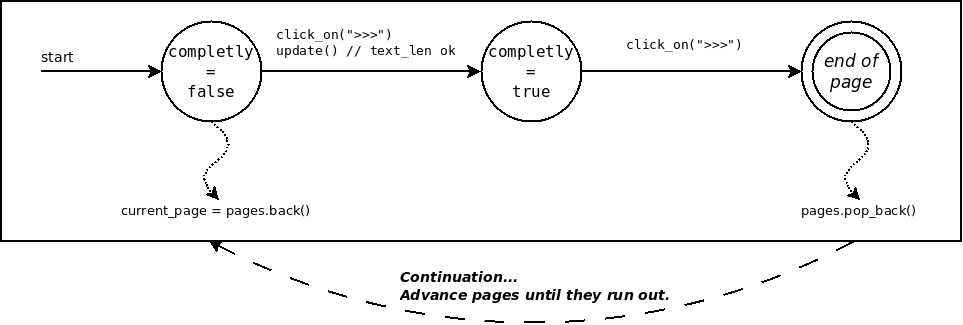
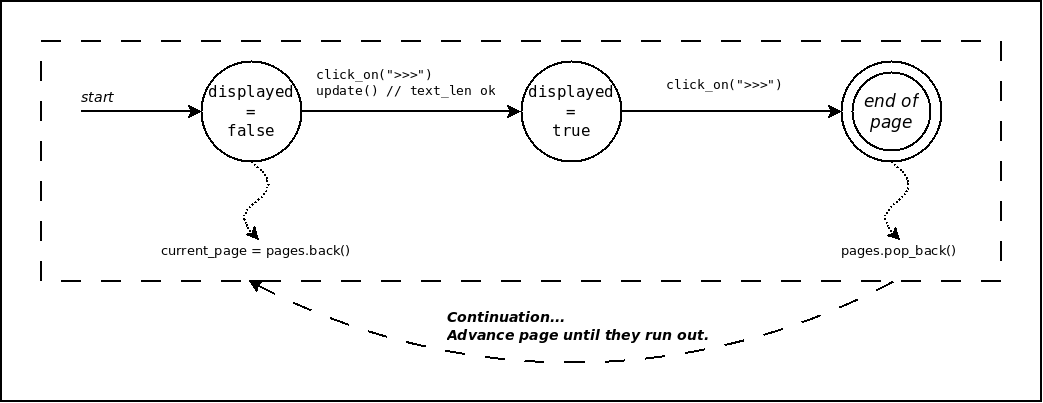
(>) README.md

diff --git a/ceu/README.html b/ceu/README.html
@@ -436,16 +436,58 @@ state passes to the current state what will be the next state.
 more natural structured code with sequences, conditionals, and loops
 -->
 
-<h3 id="case-study-1-story-screen">Case Study 1: Story Screen</h3>
+<h3 id="case-study-1-story-screen-advancing-pages">Case Study 1: Story Screen, Advancing Pages</h3>
+<div class="images">
+<img src="images/story-anim.gif" width="350"/> <br>Figure X: The &quot;Story&quot; screen.
+</div>
+<p>Each world map in Pingus has a clickable &quot;blue dot&quot; to tell an ambience story (Figure X). The words for each story page appears incrementally over time. The first click in the button &quot;&gt;&gt;&gt;&quot; fast forwards the words. The second click advances to the next page until the story terminates.</p>
+<p>The code in C++ [[<img src="images/link_12.png" alt="X" />][cpp-xxx]] defines the class <code>Bomber</code> which implements the <code>draw</code> and <code>update</code> callback methods:</p>
+<pre><code>StoryScreenComponent::StoryScreenComponent (WorldmapStory* arg, &lt;...&gt;) :
+    page_displayed_completly(),
+    story(arg),
+    pages(),
+    &lt;...&gt;
+    current_page()
+{
+    page_displayed_completly = false;
+    pages = story-&gt;get_pages();
+    current_page = pages.back();
+    &lt;...&gt;
+}
+
+&lt;...&gt;   // draw, update, etc
+
+void StoryScreenComponent::next_text() {
+    if (!page_displayed_completly) {
+        page_displayed_completly = true;
+        &lt;...&gt;
+    } else {
+        pages.pop_back();
+        if (!pages.empty()) {
+            current_page = pages.back();
+            page_displayed_completly = false;
+            &lt;...&gt;
+        } else {
+            &lt;...&gt;
+        }
+    }
+}</code></pre>
+<p>The sequential navigation from page to page implicit loop</p>
+<div class="images">
+<img src="images/story.png" width="550"/> <br>Figure X: State machine for the &quot;Story&quot; screen.
+</div>
+<p>We omitted the code for fast-forwarding the words, as it is a simple state machine (Figure X).</p>
+<p>The code for the Figure X illustrates how we can model the clicks behavior. Stories are dynamically loaded from files Each page has to continue to the next page</p>
+<p>the two are mixed</p>
+<p>as a state machine.</p>
+<p>The class defines one state variable for each action to perform (ln. X1-X2). The &quot;Oh no!&quot; sound plays as soon as the object starts in <em>state-1</em> (ln. X3). The <code>update</code> callbacks update the animation sprite and moves the pingu every frame (ln. X4-X4.1), regardless of the current state. When the animation reaches the 10th frame, it plays the &quot;Bomb!&quot; if it hasn't yet (ln. X5-X6), going to <em>state-2</em>. The <code>sound_played</code> state variable is required because the sprite frame doesn't necessarily advance on every <code>update</code> invocation. The same reasoning and technique applies to the <em>state-3</em> (ln. X7-X8 and X9-X10). The explosion sprite appears in a single frame in <em>state-4</em> (ln. X11). Finally, the pingu dies after the animation frames terminate (ln. X12-X13).</p>
+<p>is told</p>
+<p>for it.</p>
+<p>Most UI widgets in the <code>GameSession</code> screen are static and coexist with it, i.e., they are added in the constructor and are never removed explicitly [<a href="https://github.com/Pingus/pingus/blob/v0.7.6/src/pingus/screens/game_session.cpp#L76"><img src="images/link_12.png" alt="X" /></a>]:</p>
+<p>In C++, for entities with a dynamic lifespan, we need to <code>add</code> and <code>remove</code> them explicitly from the container. As an example, pingus are dynamic entities created periodically and destroyed under certain conditions (e.g. when going out of the screen [<a href="https://github.com/Pingus/pingus/blob/v0.7.6/src/pingus/pingu.cpp#L322"><img src="images/link_12.png" alt="X" /></a>]):</p>
 <p>LOOP do story_screen VS i explicito da continuacao (loop unrolling)</p>
 <p>next action is encoded in the vector</p>
-<div class="images">
-<img src="images/credits-anim.gif" width="550"/> <br>Figure X: xxx
-</div>
-<div class="images">
-<img src="images/credits.png" width="550"/> <br>Figure X: xxx
-</div>
-<h3 id="case-study-2-story-and-credits-screen">Case Study 2: Story and Credits Screen</h3>
+<h3 id="case-study-2-story-screen-termination">Case Study 2: Story Screen, Termination</h3>
 <p>SEQ</p>
 <p>storydot com ou sem credits - 15 p/ 16 clicks - nao existe retorno, sempre continuacao apos continuacao</p>
 <p><a name="dispatching-hierarchies"/></p>
@@ -566,7 +608,7 @@ end</code></pre>
 <h3 id="case-study-1-game-ui-widgets">Case Study 1: Game UI Widgets</h3>
 <!-- CPP-CONTAINER -->
 
-<p>Most UI widgets in the <code>GameSession</code> are static and coexist with it, i.e., they are added in the constructor and are never removed explicitly [<a href="https://github.com/Pingus/pingus/blob/v0.7.6/src/pingus/screens/game_session.cpp#L76"><img src="images/link_12.png" alt="X" /></a>]:</p>
+<p>Most UI widgets in the <code>GameSession</code> screen are static and coexist with it, i.e., they are added in the constructor and are never removed explicitly [<a href="https://github.com/Pingus/pingus/blob/v0.7.6/src/pingus/screens/game_session.cpp#L76"><img src="images/link_12.png" alt="X" /></a>]:</p>
 <pre><code>GameSession::GameSession(&lt;...&gt;) :
     &lt;...&gt;
 {

diff --git a/ceu/README.md b/ceu/README.md
@@ -698,24 +698,127 @@ state passes to the current state what will be the next state.
 more natural structured code with sequences, conditionals, and loops
 -->
 
-### Case Study 1: Story Screen
+### Case Study 1: Story Screen, Advancing Pages
+
+<div class="images">
+<img src="images/story-anim.gif" width="350"/>
+<br>Figure X: The "Story" screen.
+</div>
+
+The world map of Pingus has a clickable "blue dot" with an introductory story 
+about the game (Figure X).
+The words for each story page appears incrementally over time.
+The first click in the button ">>>" fast forwards the text.
+The second click advances to the next page until the story terminates.
+If the page displays completely due to the time elapsing, the first click 
+advances to the next page.
+
+The code in C++ [[![X]][cpp-TODO]] defines the class `StoryScreenComponent` 
+with a `next_text` method to advance the words and pages:
+
+```
+StoryScreenComponent::StoryScreenComponent (WorldmapStory* arg, <...>) : // X11
+    story(arg),                                 // X9
+    <...>
+{
+    pages        = story->get_pages();          // X10
+    current_page = pages.back();                // X2
+    displayed    = false;                       // X5
+    <...>
+}
+
+<...>   // draw, update, etc
+
+void StoryScreenComponent::next_text() {
+    if (!displayed) {                           // X6
+        displayed = true;                       // X7
+        <...>
+    } else {
+        pages.pop_back();                       // X12
+        if (!pages.empty()) {
+            current_page = pages.back();        // X3
+            displayed    = false;               // X8
+            <...>
+        } else {
+            <...>   // terminates the story screen
+        }
+    }
+}
+```
+
+The variable `story` (ln X9,X10) holds all pages from the story received as 
+argument (X11).
+The variable `pages` (ln. X10-X2, X12-X3) is a vector holding each page and 
+also controls the flow of the story:
+each call to `next_text` that advances the story removes a page (ln. X12) and 
+sets the new "continuation" in the `current_page` (ln. X3).
+
+
+The variable `current_page` (ln. X2,X3) represents the page being displayed.
+The variable `displayed` (ln. X5,X6,X7,X8) tracks if the current page has 
+already being displayed completely.
+
+We omitted the code for fast-forwarding the words, as it is a simple state 
+machine (Figure X).
+
+The class first initializes the variable `pressed` to track the first click 
+
+The sequential navigation from page to page
+implicit loop
+
+<div class="images">
+<img src="images/story.png" width="550"/>
+<br>Figure X: State machine for the "Story" screen.
+</div>
+
+
+
+The code for the
+Figure X illustrates how we can model the clicks behavior.
+Stories are dynamically loaded from files
+Each page has to continue to the next page
+
+the two are mixed
+
+ as a state machine.
+
+The class defines one state variable for each action to perform (ln. X1-X2).
+The "Oh no!" sound plays as soon as the object starts in *state-1* (ln. X3).
+The `update` callbacks update the animation sprite and moves the pingu every 
+frame (ln.  X4-X4.1), regardless of the current state.
+When the animation reaches the 10th frame, it plays the "Bomb!" if it hasn't 
+yet (ln. X5-X6), going to *state-2*.
+The `sound_played` state variable is required because the sprite frame doesn't 
+necessarily advance on every `update` invocation.
+The same reasoning and technique applies to the *state-3* (ln. X7-X8 and 
+X9-X10).
+The explosion sprite appears in a single frame in *state-4* (ln. X11).
+Finally, the pingu dies after the animation frames terminate (ln. X12-X13).
+
+
+
+
+is told
+
+
+for it.
+
+Most UI widgets in the `GameSession` screen are static and coexist with it, 
+i.e., they are added in the constructor and are never removed explicitly
+[[![X]][cpp-gamesession-containers]]:
+
+In C++, for entities with a dynamic lifespan, we need to `add` and `remove` 
+them explicitly from the container.
+As an example, pingus are dynamic entities created periodically and destroyed 
+under certain conditions (e.g. when going out of the screen
+[[![X]][cpp-pingu-dead]]):
 
 LOOP do story_screen VS
 i explicito da continuacao (loop unrolling)
 
 next action is encoded in the vector
 
-<div class="images">
-<img src="images/credits-anim.gif" width="550"/>
-<br>Figure X: xxx
-</div>
-
-<div class="images">
-<img src="images/credits.png" width="550"/>
-<br>Figure X: xxx
-</div>
-
-### Case Study 2: Story and Credits Screen
+### Case Study 2: Story Screen, Termination
 
 SEQ
 
